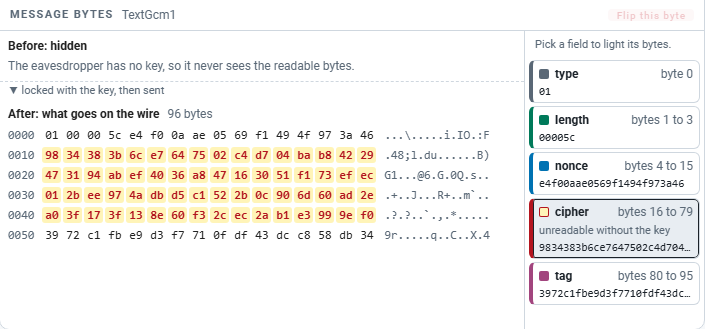
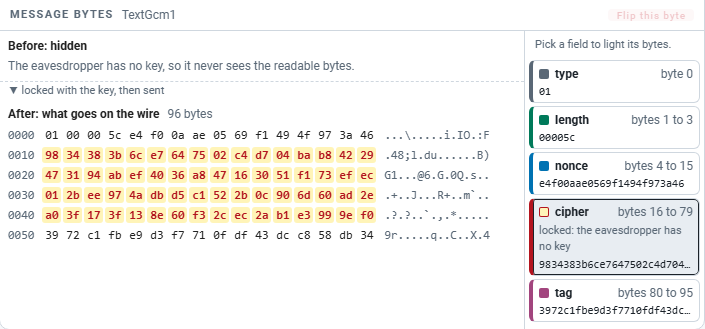
fix(app): the eavesdropper sees nothing of an event that never crossed the wire
The Eavesdropper view showed the readable bytes of an event with no wire bytes:
lesson 7 showed "hello over TLS 1.3". A listener cannot read that. The view now
shows no bytes and no rows, and it says why. The field words change to "locked:
the eavesdropper has no key", because ECB is locked and still shows a shape.

Claude-Session: https://claude.ai/code/session_013RTdUaidNWNSSsRoFumAcR

Changed region(s): [[0.7489, 0.6687, 0.9986, 1.0]]

diff --git a/app/e2e/bytes-grid.spec.ts b/app/e2e/bytes-grid.spec.ts
@@ -63,6 +63,7 @@ function expectOneGrid(m: Awaited<ReturnType<typeof measure>>, where: string) {
   expect(m.gridCut, `${where}: a hex row cut at the right`).toBe(0)
 }
 
+const LOCKED = 'locked: the eavesdropper has no key'
 const MESSAGES: [number, string[]][] = [[1, ['TextGcm1', 'TextCbc', 'PictureEcb']], [5, ['ClientHello', 'Finished']], [8, ['KEXINIT']]]
 for (const width of [1100, 1280, 1440]) {
   test(`at ${width} wide every byte column and the text column line up, and nothing overflows`, async ({ page }) => {
@@ -101,7 +102,7 @@ for (const theme of ['light', 'dark'] as const) {
     await shot(page, `eavesdropper-${theme}-at-rest`)
     const row = page.getByTestId('inspector-field-row-cipher')
     await expect(row).toContainText('bytes 16 to 79')
-    await expect(row).toContainText('unreadable without the key')
+    await expect(row).toContainText(LOCKED)
     await expect(page.getByTestId('inspector-field-value-cipher')).not.toHaveText('')
     await row.click()
     await expect(row).toHaveAttribute('aria-pressed', 'true')
@@ -117,3 +118,42 @@ for (const theme of ['light', 'dark'] as const) {
     expect(s.fails, JSON.stringify(s.fails.slice(0, 5))).toEqual([])
   })
 }
+
+// Ranges checked against the engine by decryption with each run's own keys. A wrong range in these lessons must fail here.
+const RANGES: [number, string, string, string, number][] = [
+  [6, 'Sale', 'pinBlock', 'bytes 16 to 31', 16],
+  [7, 'ApplicationData', 'cipher', 'bytes 21 to 68', 48],
+  [8, 'ServiceRequest', 'encryptedPacket', 'bytes 0 to 31', 32],
+]
+for (const [lesson, message, field, range, count] of RANGES) {
+  test(`lesson ${lesson}: the eavesdropper can pick ${field} of ${message}, ${range}`, async ({ page }) => {
+    await page.setViewportSize({ width: 1440, height: 800 })
+    await freePlay(page, lesson)
+    await pick(page, message)
+    await page.getByTestId('view-eavesdropper').click()
+    const row = page.getByTestId(`inspector-field-row-${field}`)
+    await expect(row).toContainText(range)
+    await expect(row).toContainText(LOCKED)
+    await row.click()
+    await expect(page.getByTestId('inspector-after').locator('.hb.lit.k-sealed')).toHaveCount(count)
+  })
+}
+
+test('an event with no wire bytes shows the eavesdropper no bytes and no rows', async ({ page }) => {
+  await page.setViewportSize({ width: 1440, height: 800 })
+  await freePlay(page, 7)
+  const id = await page.locator('.statusbar').innerText().then(t => /session (?<id>\S+)/.exec(t)?.groups?.id ?? '')
+  const r = await fetch(`http://127.0.0.1:${host.port}/api/sessions/${id}/events`, { headers: { Authorization: `Bearer ${host.token}` } })
+  const body = (await r.json()) as { events?: any[] } | any[]
+  const rows = (Array.isArray(body) ? body : body.events ?? []).map((f: any) => ({ seq: f.seq, ...(f.event ?? f) }))
+  const plainOnly = rows.find((e: any) => e.type === 'tls.record.received' && e.plain && !e.wire)
+  expect(plainOnly, 'a received record with readable bytes and no wire bytes').toBeTruthy()
+  const text = Buffer.from(plainOnly.plain, 'hex').toString('latin1')
+  await page.getByTestId(`event-row-${plainOnly.seq}`).click()
+  await page.getByTestId('inspector-tab-bytes').click()
+  await expect(page.getByTestId('inspector')).toContainText(text.slice(0, 8))
+  await page.getByTestId('view-eavesdropper').click()
+  await expect(page.getByTestId('inspector')).not.toContainText(text.slice(0, 8))
+  await expect(page.getByTestId('inspector').locator('.field-row')).toHaveCount(0)
+  await expect(page.getByTestId('inspector-no-wire')).toBeVisible()
+})

diff --git a/app/src/components/ByteInspector.vue b/app/src/components/ByteInspector.vue
@@ -76,7 +76,8 @@ const canFlip = computed(() => ui.selectedByte != null && !!ev.value?.wire && !i
       <v-spacer />
       <v-btn size="x-small" color="error" :disabled="!canFlip" data-testid="flip-byte-button" @click="flipSelectedByte">Flip this byte</v-btn>
     </div>
-    <div v-if="!ev || !view || (!view.before && !view.after && !view.beforeHidden)" class="empty-note">{{ ev ? 'This event moves no bytes.' : 'Bytes appear here when the engine sends a message.' }}</div>
+    <div v-if="view?.neverOnWire" class="empty-note" data-testid="inspector-no-wire">This event never crossed the wire, so a listener sees nothing of it.</div>
+    <div v-else-if="!ev || !view || (!view.before && !view.after && !view.beforeHidden)" class="empty-note">{{ ev ? 'This event moves no bytes.' : 'Bytes appear here when the engine sends a message.' }}</div>
     <div v-else class="inspector-body">
       <div class="byte-grids">
         <section v-if="view.before" class="grid-sec" :class="{ shut: !beforeOpen }">
@@ -110,7 +111,7 @@ const canFlip = computed(() => ui.selectedByte != null && !!ev.value?.wire && !i
       </div>
       <div class="field-list" role="group" aria-label="Fields of this message">
         <div class="fl-hint muted">{{ fields.length ? 'Pick a field to light its bytes.' : 'This message lists no fields.' }}</div>
-        <div v-if="eve && unreadableBytes" class="field-note">unreadable without the key ({{ unreadableBytes }} bytes)</div>
+        <div v-if="eve && unreadableBytes" class="field-note">locked: the eavesdropper has no key ({{ unreadableBytes }} bytes)</div>
         <template v-for="f in fields" :key="fieldKey(f)">
           <button
             type="button" class="field-row" :class="[sealed(f) ? 'k-sealed' : `k-${f.kind}`, { on: isLit(f), unreadable: sealed(f), hl: isHighlighted('inspector', 'field', f.name) }]"
@@ -118,7 +119,7 @@ const canFlip = computed(() => ui.selectedByte != null && !!ev.value?.wire && !i
           >
             <span class="fname"><i class="swatch" :class="sealed(f) ? 'k-sealed' : `k-${f.kind}`" />{{ f.name }}</span>
             <span class="muted">{{ where(f) }}</span>
-            <span v-if="sealed(f)" class="fgloss">unreadable without the key</span>
+            <span v-if="sealed(f)" class="fgloss">locked: the eavesdropper has no key</span>
             <span v-else-if="f.gloss && f.gloss.toLowerCase() !== f.name.toLowerCase()" class="fgloss">{{ f.gloss }}</span>
             <span class="fval" :data-testid="`inspector-field-value-${f.name}`">{{ decoded(f) }}</span>
           </button>

diff --git a/app/src/bytes.ts b/app/src/bytes.ts
@@ -16,6 +16,8 @@ export interface BytesView {
   after: { hex: string } | null
   /** True when the eavesdropper view hides readable bytes that the endpoints can see. */
   beforeHidden: boolean
+  /** True in the eavesdropper view for an event with readable bytes that never crossed the wire: a listener sees nothing of it. */
+  neverOnWire: boolean
   /** The buffer the fields describe. */
   fieldsOn: 'before' | 'after'
   /** The fields that fit their buffer. */
@@ -48,10 +50,13 @@ export function bytesView(e: TraceEvent, view: 'endpoints' | 'eavesdropper' | 'b
   const end = endOf(e.fields)
 
   // An engine event: only the readable bytes. Its fields often describe the wire it will become, so they show only when they fill it.
-  if (!wireLen) return { before: plainLen ? { hex: e.plain } : null, after: null, beforeHidden: false, fieldsOn: 'before', fields: end === plainLen ? [...e.fields] : [], source: null }
+  if (!wireLen) {
+    if (view === 'eavesdropper') return { before: null, after: null, beforeHidden: false, neverOnWire: plainLen > 0, fieldsOn: 'before', fields: [], source: null }
+    return { before: plainLen ? { hex: e.plain } : null, after: null, beforeHidden: false, neverOnWire: false, fieldsOn: 'before', fields: end === plainLen ? [...e.fields] : [], source: null }
+  }
 
   // In the clear and unchanged: one grid is enough.
-  if (!plainLen || e.plain === e.wire) return { before: null, after: { hex: e.wire }, beforeHidden: false, fieldsOn: 'after', fields: fits(e.fields, wireLen), source: null }
+  if (!plainLen || e.plain === e.wire) return { before: null, after: { hex: e.wire }, beforeHidden: false, neverOnWire: false, fieldsOn: 'after', fields: fits(e.fields, wireLen), source: null }
 
   // Fields that end where the readable bytes end, and not where the wire ends, describe the inner message (TLS 1.3 records).
   const fieldsOn = end === plainLen && end !== wireLen ? 'before' : 'after'
@@ -61,6 +66,7 @@ export function bytesView(e: TraceEvent, view: 'endpoints' | 'eavesdropper' | 'b
     before: hide ? null : { hex: e.plain },
     after: { hex: e.wire },
     beforeHidden: hide,
+    neverOnWire: false,
     fieldsOn,
     fields: hide && fieldsOn === 'before' ? [] : fields,
     source: fieldsOn === 'after' ? sourceOf(e, fields) : null,

diff --git a/app/e2e/bytes-layout.spec.ts b/app/e2e/bytes-layout.spec.ts
@@ -61,6 +61,17 @@ test('an engine event with no wire bytes shows only the fields that fit its byte
   expect(v.fields).toEqual([])
 })
 
+test('an event that never crossed the wire shows the eavesdropper nothing', () => {
+  // Lesson 7, tls.record.received: the receiver's readable text, with no wire bytes.
+  const received = ev({ type: 'tls.record.received', plain: hexOf(19, 0x68), wire: '', fields: [f('application_data', 0, 19, 'data', false)] })
+  const v = bytesView(received, 'eavesdropper')
+  expect(v.before).toBeNull()
+  expect(v.after).toBeNull()
+  expect(v.fields).toEqual([])
+  expect(v.neverOnWire).toBe(true)
+  expect(bytesView(received, 'endpoints').before?.hex.length).toBe(38)
+})
+
 test('the window fits the screen work area of a 1080p screen at 100, 125 and 150 percent', () => {
   for (const area of [{ x: 0, y: 0, width: 1920, height: 1032 }, { x: 0, y: 0, width: 1536, height: 824 }, { x: 0, y: 0, width: 1280, height: 688 }]) {
     const w = fitWindow(area)

diff --git a/docs/ux-design.md b/docs/ux-design.md
@@ -87,7 +87,7 @@ The panel's visible name is **Message bytes** (tab label and panel title). Code,
 4. Each field in the field list is a toggle. Nothing is lit by default. A lit field fills its bytes with the color of its `kind` (table in section 4). A wire field that holds the readable bytes (the cipher span, or the payload in the clear) also lights those bytes in Before.
 5. The field list (right side) shows name, byte range, `gloss` when it says more than the name, and the decoded value from the field's own buffer. A tour highlight `inspector:field=<name>` rings the toggle and lights nothing.
 6. Byte selection plus the `Flip this byte` button starts an attack (section 7).
-7. In Eavesdropper view a field with `visibleToWire` false keeps its row when the event places it on the wire bytes. The row says `unreadable without the key`, and picking it lights its bytes in the sealed colors. A hidden field that describes only the readable bytes has no place on the wire, so those fields stay one note: `unreadable without the key (N bytes)`.
+7. In Eavesdropper view a field with `visibleToWire` false keeps its row when the event places it on the wire bytes. The row says `locked: the eavesdropper has no key`, and picking it lights its bytes in the sealed colors. The words hold for every mode, because ECB is locked and still shows a picture's shape. A hidden field that describes only the readable bytes has no place on the wire, so those fields stay one note: `locked: the eavesdropper has no key (N bytes)`. An event with no wire bytes shows the eavesdropper no bytes and no rows.
 8. Every row of both grids shares fixed columns: offset, 16 bytes, text. Field boundaries show by color, never by added space. Below 690 px the field list stacks under the grids.
 
 ### 1.5 Secrets panel
